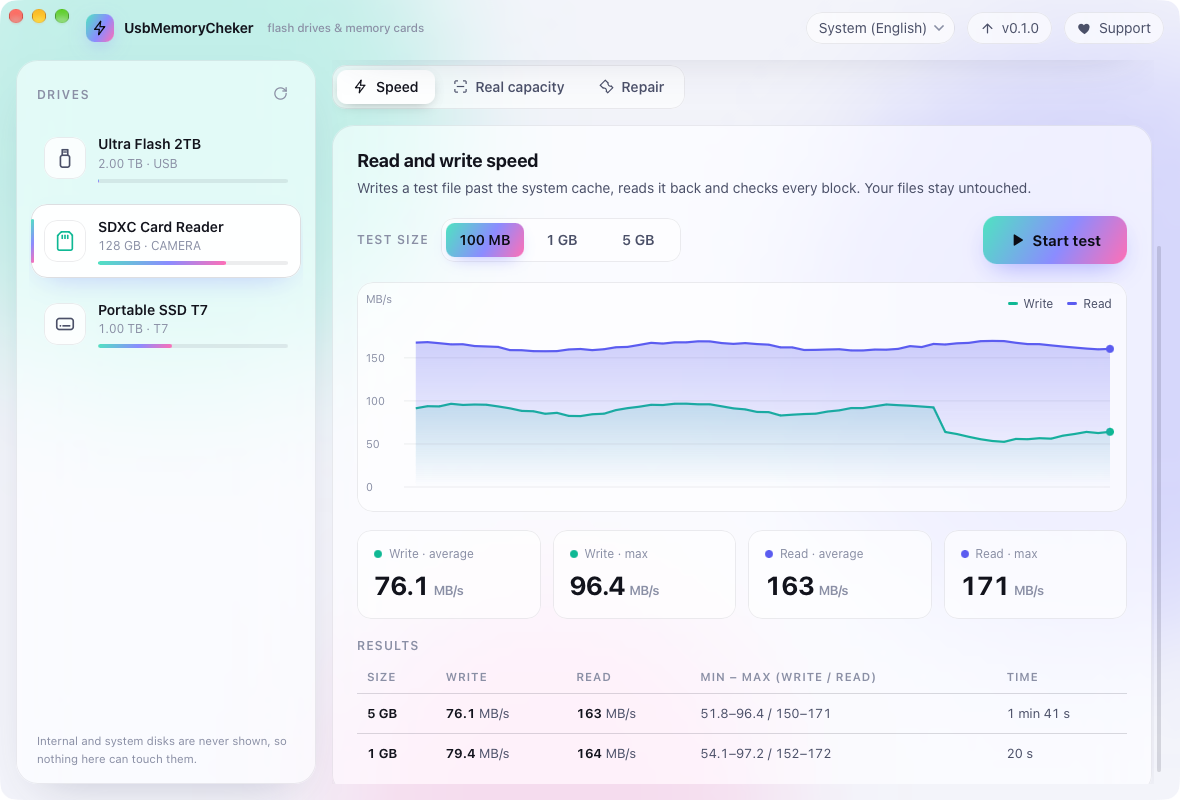
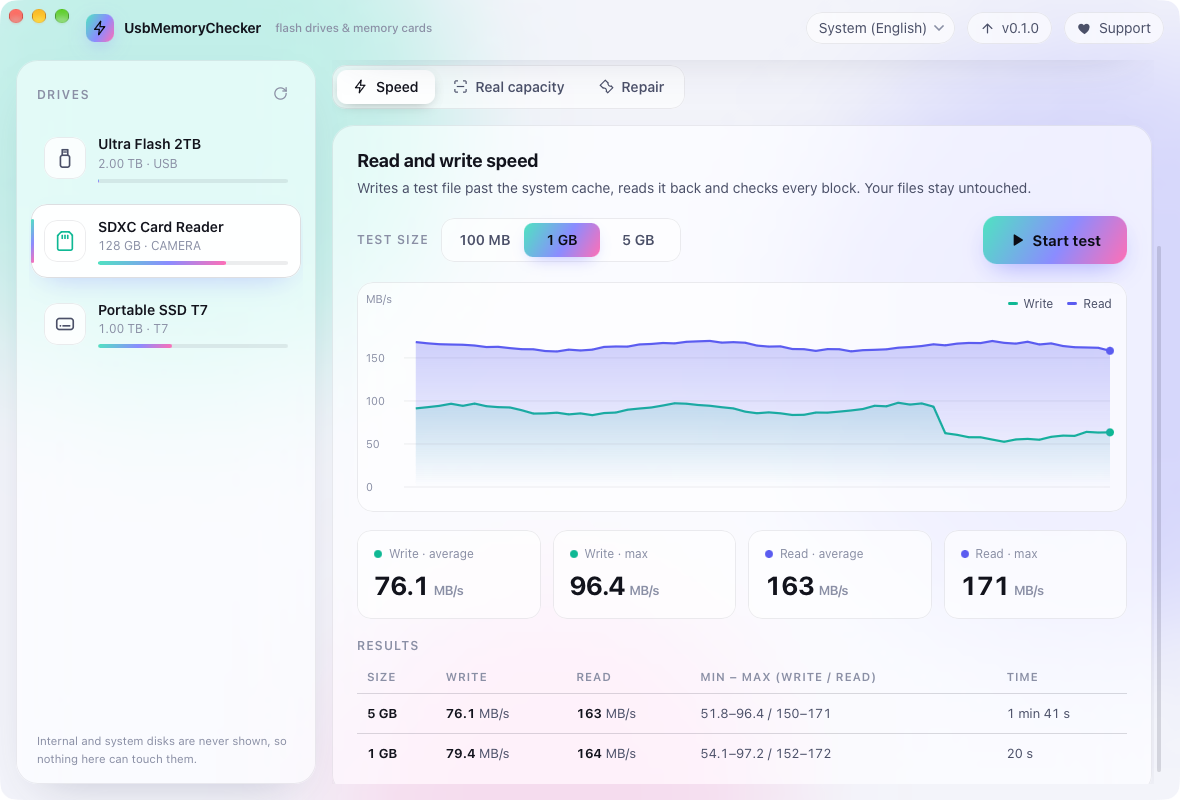
Rename the app to UsbMemoryChecker
- App, bundle, exe, release files, folders and texts use the new name
- Windows zip also carries the exe as UsbMemoryCheker.exe, so v0.1.0 can still update itself
- Settings are read from the old UsbMemoryCheker folder if the new one is missing

diff --git a/src/ui/i18n.js b/src/ui/i18n.js
@@ -132,7 +132,7 @@ const I18N = {
     errCancelled: 'Stopped.',
     errBrowser: "Couldn't open the browser: {err}",
     errWaitTask: 'Wait until the test finishes, then update.',
-    donateHeading: 'Thanks for using UsbMemoryCheker!',
+    donateHeading: 'Thanks for using UsbMemoryChecker!',
     donateOffline: "Couldn't load the latest list, showing a saved copy.",
     updTitle: 'Updates',
     updAvailableTitle: 'Version {v} is available',
@@ -152,7 +152,7 @@ const I18N = {
     updNew: 'Version {v} is available.',
     updLatest: 'You have the latest version, {v}.',
     updCheckFailed: "Couldn't check for updates: {err}",
-    updDownloading: 'Downloading UsbMemoryCheker {v}…',
+    updDownloading: 'Downloading UsbMemoryChecker {v}…',
     updRestarting: 'Update downloaded, restarting…',
     updFailed: "The update wasn't installed: {err}",
   },
@@ -284,7 +284,7 @@ const I18N = {
     errCancelled: 'Остановлено.',
     errBrowser: 'Не удалось открыть браузер: {err}',
     errWaitTask: 'Дождитесь окончания проверки, потом обновляйте.',
-    donateHeading: 'Спасибо, что пользуетесь UsbMemoryCheker!',
+    donateHeading: 'Спасибо, что пользуетесь UsbMemoryChecker!',
     donateOffline: 'Свежий список способов загрузить не удалось: показана сохранённая копия.',
     updTitle: 'Обновления',
     updAvailableTitle: 'Доступна версия {v}',
@@ -304,7 +304,7 @@ const I18N = {
     updNew: 'Доступна версия {v}.',
     updLatest: 'У вас последняя версия, {v}.',
     updCheckFailed: 'Не удалось проверить обновления: {err}',
-    updDownloading: 'Скачиваю UsbMemoryCheker {v}…',
+    updDownloading: 'Скачиваю UsbMemoryChecker {v}…',
     updRestarting: 'Обновление скачано, перезапуск…',
     updFailed: 'Обновление не установлено: {err}',
   },
@@ -436,7 +436,7 @@ const I18N = {
     errCancelled: 'Detenido.',
     errBrowser: 'No se pudo abrir el navegador: {err}',
     errWaitTask: 'Espera a que termine la prueba y luego actualiza.',
-    donateHeading: '¡Gracias por usar UsbMemoryCheker!',
+    donateHeading: '¡Gracias por usar UsbMemoryChecker!',
     donateOffline: 'No se pudo cargar la lista actual; se muestra una copia guardada.',
     updTitle: 'Actualizaciones',
     updAvailableTitle: 'La versión {v} está disponible',
@@ -456,7 +456,7 @@ const I18N = {
     updNew: 'La versión {v} está disponible.',
     updLatest: 'Tienes la última versión, {v}.',
     updCheckFailed: 'No se pudieron buscar actualizaciones: {err}',
-    updDownloading: 'Descargando UsbMemoryCheker {v}…',
+    updDownloading: 'Descargando UsbMemoryChecker {v}…',
     updRestarting: 'Actualización descargada, reiniciando…',
     updFailed: 'La actualización no se instaló: {err}',
   },
@@ -588,7 +588,7 @@ const I18N = {
     errCancelled: 'Angehalten.',
     errBrowser: 'Browser konnte nicht geöffnet werden: {err}',
     errWaitTask: 'Warten Sie, bis der Test fertig ist, und aktualisieren Sie dann.',
-    donateHeading: 'Danke, dass Sie UsbMemoryCheker nutzen!',
+    donateHeading: 'Danke, dass Sie UsbMemoryChecker nutzen!',
     donateOffline: 'Die aktuelle Liste konnte nicht geladen werden, es wird eine gespeicherte Kopie gezeigt.',
     updTitle: 'Updates',
     updAvailableTitle: 'Version {v} ist verfügbar',
@@ -608,7 +608,7 @@ const I18N = {
     updNew: 'Version {v} ist verfügbar.',
     updLatest: 'Sie haben die neueste Version, {v}.',
     updCheckFailed: 'Updates konnten nicht geprüft werden: {err}',
-    updDownloading: 'UsbMemoryCheker {v} wird geladen…',
+    updDownloading: 'UsbMemoryChecker {v} wird geladen…',
     updRestarting: 'Update geladen, Neustart…',
     updFailed: 'Das Update wurde nicht installiert: {err}',
   },
@@ -740,7 +740,7 @@ const I18N = {
     errCancelled: '已停止。',
     errBrowser: '无法打开浏览器：{err}',
     errWaitTask: '请等检测结束后再更新。',
-    donateHeading: '感谢使用 UsbMemoryCheker！',
+    donateHeading: '感谢使用 UsbMemoryChecker！',
     donateOffline: '无法加载最新列表，显示的是保存的副本。',
     updTitle: '更新',
     updAvailableTitle: '版本 {v} 可用',
@@ -760,7 +760,7 @@ const I18N = {
     updNew: '版本 {v} 可用。',
     updLatest: '已是最新版本 {v}。',
     updCheckFailed: '无法检查更新：{err}',
-    updDownloading: '正在下载 UsbMemoryCheker {v}…',
+    updDownloading: '正在下载 UsbMemoryChecker {v}…',
     updRestarting: '更新已下载，正在重启…',
     updFailed: '更新未安装：{err}',
   },

diff --git a/src/ui/index.html b/src/ui/index.html
@@ -3,7 +3,7 @@
 <head>
 <meta charset="utf-8">
 <meta name="viewport" content="width=device-width, initial-scale=1">
-<title>UsbMemoryCheker</title>
+<title>UsbMemoryChecker</title>
 <style>
 :root {
   --bg: #07080d;
@@ -360,7 +360,7 @@ tr:last-child td { border-bottom: 0; }
   <header class="titlebar" id="titlebar">
     <div class="brand">
       <div class="logo"><svg><use href="#i-bolt"/></svg></div>
-      UsbMemoryCheker <small data-i18n="appTagline"></small>
+      UsbMemoryChecker <small data-i18n="appTagline"></small>
     </div>
     <div class="spacer" id="dragZone"></div>
     <select class="pill-btn" id="langSelect" onchange="send('set_language',{lang:this.value})" data-i18n-title="languageTip"></select>

diff --git a/src/update.rs b/src/update.rs
@@ -1,7 +1,7 @@
-//! Обновление программы из релизов GitHub, как в ADB Toolkit, UsbMemoryCheker и EnhanceCapCut, на обеих системах.
+//! Обновление программы из релизов GitHub, как в ADB Toolkit, UsbMemoryChecker и EnhanceCapCut, на обеих системах.
 //!
 //! Последний релиз берётся из GitHub API; в нём ищется архив для своей системы
-//! (`…-macos-arm64.zip` с `UsbMemoryCheker.app` или `…-windows-x64.zip` с `UsbMemoryCheker.exe`). Скачанный архив сверяется
+//! (`…-macos-arm64.zip` с `UsbMemoryChecker.app` или `…-windows-x64.zip` с `UsbMemoryChecker.exe`). Скачанный архив сверяется
 //! с SHA-256, который GitHub публикует для каждого файла релиза, распаковывается во временную папку, а заменяет
 //! программу небольшой скрипт уже после её выхода и запускает новую версию.
 
@@ -13,8 +13,8 @@ use sha2::{Digest, Sha256};
 use crate::net::{self, command};
 
 pub const REPO: &str = "DeMoZ/UsbMemoryChecker";
-const WORK_PREFIX: &str = "UsbMemoryCheker-update-";
-const EXE: &str = "UsbMemoryCheker.exe";
+const WORK_PREFIX: &str = "UsbMemoryChecker-update-";
+const EXE: &str = "UsbMemoryChecker.exe";
 
 /// Суффикс архива для этой системы.
 pub fn asset_suffix() -> &'static str {
@@ -89,7 +89,7 @@ pub fn latest() -> Result<Option<Release>, String> {
     Ok(parse_release(&String::from_utf8_lossy(&data), asset_suffix()))
 }
 
-/// Где лежит программа, которую заменит обновление: `UsbMemoryCheker.app` на Mac, папка с .exe в Windows.
+/// Где лежит программа, которую заменит обновление: `UsbMemoryChecker.app` на Mac, папка с .exe в Windows.
 /// None — сборка для разработки (`cargo run`) или программа запущена не из .app.
 pub fn install_target() -> Option<PathBuf> {
     if cfg!(debug_assertions) {
@@ -107,7 +107,7 @@ pub fn install_target() -> Option<PathBuf> {
 pub fn can_write(target: &Path) -> bool {
     let folder = if cfg!(target_os = "macos") { target.parent() } else { Some(target) };
     let Some(folder) = folder else { return false };
-    let probe = folder.join(format!(".usbmemorycheker-update-check-{}", std::process::id()));
+    let probe = folder.join(format!(".usbmemorychecker-update-check-{}", std::process::id()));
     let ok = std::fs::write(&probe, b"").is_ok();
     let _ = std::fs::remove_file(&probe);
     ok
@@ -184,7 +184,7 @@ fn sh_quote(p: &Path) -> String {
     format!("'{}'", p.to_string_lossy().replace('\'', r"'\''"))
 }
 
-/// Папка загрузки (UsbMemoryCheker-update-<версия>), которую скрипт удалит после копирования.
+/// Папка загрузки (UsbMemoryChecker-update-<версия>), которую скрипт удалит после копирования.
 fn work_dir(source: &Path) -> PathBuf {
     source
         .ancestors()
@@ -235,7 +235,7 @@ pub fn windows_script(source: &Path, target: &Path, pid: u32) -> String {
 pub fn start_install(source: &Path, target: &Path) -> Result<(), String> {
     let pid = std::process::id();
     if cfg!(windows) {
-        let script = std::env::temp_dir().join("UsbMemoryCheker-update.ps1");
+        let script = std::env::temp_dir().join("UsbMemoryChecker-update.ps1");
         std::fs::write(&script, windows_script(source, target, pid)).map_err(|e| e.to_string())?;
         command("powershell.exe")
             .args(["-NoProfile", "-ExecutionPolicy", "Bypass", "-WindowStyle", "Hidden", "-File"])
@@ -243,7 +243,7 @@ pub fn start_install(source: &Path, target: &Path) -> Result<(), String> {
             .spawn()
             .map_err(|e| e.to_string())?;
     } else {
-        let script = std::env::temp_dir().join("UsbMemoryCheker-update.sh");
+        let script = std::env::temp_dir().join("UsbMemoryChecker-update.sh");
         std::fs::write(&script, mac_script(source, target, pid)).map_err(|e| e.to_string())?;
         command("/bin/bash").arg(&script).spawn().map_err(|e| e.to_string())?;
     }
@@ -256,9 +256,9 @@ mod tests {
 
     const LATEST: &str = r###"{"tag_name":"v0.4.0","html_url":"https://github.com/DeMoZ/UsbMemoryChecker/releases/tag/v0.4.0",
         "body":"## Что нового\n- Быстрее\n## Установка\nСкачайте","assets":[
-        {"name":"UsbMemoryCheker-macOS-v0.4.0.dmg","browser_download_url":"https://x/dmg"},
-        {"name":"UsbMemoryCheker-0.4.0-macos-arm64.zip","browser_download_url":"https://x/mac.zip","digest":"sha256:ABCDEF"},
-        {"name":"UsbMemoryCheker-0.4.0-windows-x64.zip","browser_download_url":"https://x/win.zip"}]}"###;
+        {"name":"UsbMemoryChecker-macOS-v0.4.0.dmg","browser_download_url":"https://x/dmg"},
+        {"name":"UsbMemoryChecker-0.4.0-macos-arm64.zip","browser_download_url":"https://x/mac.zip","digest":"sha256:ABCDEF"},
+        {"name":"UsbMemoryChecker-0.4.0-windows-x64.zip","browser_download_url":"https://x/win.zip"}]}"###;
 
     #[test]
     fn release_for_each_system() {
@@ -298,13 +298,13 @@ mod tests {
 
     #[test]
     fn scripts_quote_paths() {
-        let src = Path::new("/tmp/UsbMemoryCheker-update-0.4.0/app/UsbMemoryCheker.app");
-        let s = mac_script(src, Path::new("/Applications/UsbMemoryCheker.app"), 42);
+        let src = Path::new("/tmp/UsbMemoryChecker-update-0.4.0/app/UsbMemoryChecker.app");
+        let s = mac_script(src, Path::new("/Applications/UsbMemoryChecker.app"), 42);
         assert!(s.contains("kill -0 42"));
-        assert!(s.contains("'/Applications/UsbMemoryCheker.app.old'"));
-        assert!(s.contains("rm -rf '/Applications/UsbMemoryCheker.app.old' '/tmp/UsbMemoryCheker-update-0.4.0'"));
+        assert!(s.contains("'/Applications/UsbMemoryChecker.app.old'"));
+        assert!(s.contains("rm -rf '/Applications/UsbMemoryChecker.app.old' '/tmp/UsbMemoryChecker-update-0.4.0'"));
         // пути собираются через Path::join, поэтому проверка не зависит от разделителя в системе
-        let work = std::env::temp_dir().join("UsbMemoryCheker-update-0.4.0");
+        let work = std::env::temp_dir().join("UsbMemoryChecker-update-0.4.0");
         let target = std::env::temp_dir().join("Rom's tools");
         let w = windows_script(&work.join("app"), &target, 7);
         assert!(w.contains("Wait-Process -Id 7"));

diff --git a/src/i18n.rs b/src/i18n.rs
@@ -23,15 +23,15 @@ pub fn resolve(setting: &str) -> &'static str {
 /// Text of the macOS administrator password window.
 pub fn admin_prompt(lang: &str) -> &'static str {
     match lang {
-        "ru" => "UsbMemoryCheker нужен доступ администратора, чтобы напрямую проверить или переразметить носитель.",
+        "ru" => "UsbMemoryChecker нужен доступ администратора, чтобы напрямую проверить или переразметить носитель.",
         "es" => {
-            "UsbMemoryCheker necesita permisos de administrador para comprobar o reparticionar la unidad directamente."
+            "UsbMemoryChecker necesita permisos de administrador para comprobar o reparticionar la unidad directamente."
         }
         "de" => {
-            "UsbMemoryCheker benötigt Administratorrechte, um das Laufwerk direkt zu prüfen oder neu zu partitionieren."
+            "UsbMemoryChecker benötigt Administratorrechte, um das Laufwerk direkt zu prüfen oder neu zu partitionieren."
         }
-        "zh" => "UsbMemoryCheker 需要管理员权限才能直接检测或重新分区该存储设备。",
-        _ => "UsbMemoryCheker needs administrator rights to test or repartition the drive directly.",
+        "zh" => "UsbMemoryChecker 需要管理员权限才能直接检测或重新分区该存储设备。",
+        _ => "UsbMemoryChecker needs administrator rights to test or repartition the drive directly.",
     }
 }
 

diff --git a/src/donations.rs b/src/donations.rs
@@ -1,4 +1,4 @@
-//! Окно «Поддержать»: ссылки и тексты из репозитория DeMoZ/donations (файл `usbmemorycheker.json`, формат schema 1),
+//! Окно «Поддержать»: ссылки и тексты из репозитория DeMoZ/donations (файл `usbmemorychecker.json`, формат schema 1),
 //! как в ADB Toolkit, 360Cleaner, EnhanceCapCut, LocalAIBar и UniversalKM. Ссылки меняются там без нового релиза программы.
 //!
 //! Порядок: raw.githubusercontent.com, зеркало jsDelivr, последняя сохранённая копия, копия внутри программы.
@@ -7,7 +7,7 @@ use serde_json::Value;
 
 use crate::net;
 
-pub const FILE: &str = "usbmemorycheker.json";
+pub const FILE: &str = "usbmemorychecker.json";
 const BUILT_IN: &str = include_str!("../assets/donations.json");
 
 #[derive(Clone, Debug, PartialEq, Eq, serde::Serialize)]
@@ -127,7 +127,7 @@ mod tests {
     fn built_in_file_is_valid() {
         for lang in crate::i18n::LANGUAGES {
             let info = parse(BUILT_IN.as_bytes(), lang).unwrap();
-            assert!(info.message.unwrap().contains("UsbMemoryCheker"));
+            assert!(info.message.unwrap().contains("UsbMemoryChecker"));
         }
         let info = parse(BUILT_IN.as_bytes(), "ru").unwrap();
         assert!(info.methods[0].title.contains("Карта"));

diff --git a/src/net.rs b/src/net.rs
@@ -20,7 +20,7 @@ pub fn command(program: &str) -> Command {
 fn curl() -> Command {
     let mut c = command(if cfg!(windows) { "curl.exe" } else { "/usr/bin/curl" });
     // GitHub API без User-Agent отвечает отказом.
-    c.args(["-fsSL", "--proto", "=https", "-A", "UsbMemoryCheker"]).stdin(Stdio::null());
+    c.args(["-fsSL", "--proto", "=https", "-A", "UsbMemoryChecker"]).stdin(Stdio::null());
     c
 }
 
@@ -83,15 +83,15 @@ fn base_dir(var_win: &str, mac: &str, linux: &str) -> PathBuf {
     } else {
         home.join(linux)
     };
-    dir.join("UsbMemoryCheker")
+    dir.join("UsbMemoryChecker")
 }
 
-/// Настройки: `~/Library/Application Support/UsbMemoryCheker`, `%APPDATA%\UsbMemoryCheker`.
+/// Настройки: `~/Library/Application Support/UsbMemoryChecker`, `%APPDATA%\UsbMemoryChecker`.
 pub fn config_dir() -> PathBuf {
     base_dir("APPDATA", "Library/Application Support", ".config")
 }
 
-/// Кэш: `~/Library/Caches/UsbMemoryCheker`, `%LOCALAPPDATA%\UsbMemoryCheker`.
+/// Кэш: `~/Library/Caches/UsbMemoryChecker`, `%LOCALAPPDATA%\UsbMemoryChecker`.
 pub fn cache_dir() -> PathBuf {
     base_dir("LOCALAPPDATA", "Library/Caches", ".cache")
 }

diff --git a/src/helper.rs b/src/helper.rs
@@ -229,7 +229,7 @@ fn run_fix(disk: &Disk, job: &Job) -> Result<String, String> {
     }
     #[cfg(windows)]
     {
-        let script = std::env::temp_dir().join(format!("UsbMemoryCheker-fix-{}.txt", std::process::id()));
+        let script = std::env::temp_dir().join(format!("UsbMemoryChecker-fix-{}.txt", std::process::id()));
         std::fs::write(&script, diskpart_script(&disk.id, job)).map_err(|e| e.to_string())?;
         let out = crate::net::command("diskpart.exe").arg("/s").arg(&script).output();
         let _ = std::fs::remove_file(&script);
@@ -254,7 +254,7 @@ pub enum RunError {
 
 fn job_dir() -> PathBuf {
     let t = std::time::SystemTime::now().duration_since(std::time::UNIX_EPOCH).map(|d| d.as_millis()).unwrap_or(0);
-    std::env::temp_dir().join(format!("UsbMemoryCheker-job-{}-{t}", std::process::id()))
+    std::env::temp_dir().join(format!("UsbMemoryChecker-job-{}-{t}", std::process::id()))
 }
 
 /// Runs the job elevated and waits for it. `on_progress` gets (fraction, stage key).

diff --git a/src/main.rs b/src/main.rs
@@ -1,4 +1,4 @@
-//! UsbMemoryCheker — checks USB flash drives and memory cards: read/write speed, real capacity (finds fake
+//! UsbMemoryChecker — checks USB flash drives and memory cards: read/write speed, real capacity (finds fake
 //! drives that report more than they hold) and repairs a fake drive so it shows only its real size.
 //!
 //! Window: tao + wry (system WebView), page in `ui/index.html`. Threads: the WebView lives only in the main
@@ -166,7 +166,7 @@ fn main() -> Result<(), Box<dyn std::error::Error>> {
 
     #[allow(unused_mut)]
     let mut builder = WindowBuilder::new()
-        .with_title("UsbMemoryCheker")
+        .with_title("UsbMemoryChecker")
         .with_inner_size(tao::dpi::LogicalSize::new(1180.0, 800.0))
         .with_min_inner_size(tao::dpi::LogicalSize::new(880.0, 620.0));
     #[cfg(target_os = "macos")]

diff --git a/src/cli.rs b/src/cli.rs
@@ -1,11 +1,11 @@
 //! Command line without a window, for scripts and for checking the engines on a real drive:
 //!
 //! ```text
-//! usbmemorycheker --cli list
-//! usbmemorycheker --cli speed <disk> <MB>
-//! usbmemorycheker --cli full <disk> [limit MB]
-//! usbmemorycheker --cli probe <disk>        (asks for administrator rights like the window does)
-//! usbmemorycheker --cli fix <disk> <real bytes|0> [exfat|fat32] [LABEL]
+//! usbmemorychecker --cli list
+//! usbmemorychecker --cli speed <disk> <MB>
+//! usbmemorychecker --cli full <disk> [limit MB]
+//! usbmemorychecker --cli probe <disk>        (asks for administrator rights like the window does)
+//! usbmemorychecker --cli fix <disk> <real bytes|0> [exfat|fat32] [LABEL]
 //! ```
 //!
 //! Prints JSON results to stdout, progress to stderr.

diff --git a/src/settings.rs b/src/settings.rs
@@ -50,7 +50,12 @@ impl Settings {
     }
 
     pub fn load() -> Self {
-        std::fs::read_to_string(file()).map(|t| Self::from_json(&t)).unwrap_or_default()
+        // up to v0.1.0 the app was called UsbMemoryCheker and kept its settings in a folder of that name
+        let old = file().parent().and_then(|d| d.parent()).map(|d| d.join("UsbMemoryCheker").join("settings.json"));
+        std::fs::read_to_string(file())
+            .or_else(|e| old.map_or(Err(e), std::fs::read_to_string))
+            .map(|t| Self::from_json(&t))
+            .unwrap_or_default()
     }
 
     pub fn save(&self) {

diff --git a/build.rs b/build.rs
@@ -5,8 +5,8 @@ fn main() {
     {
         let mut res = winresource::WindowsResource::new();
         res.set_icon("assets/icon.ico");
-        res.set("FileDescription", "UsbMemoryCheker");
-        res.set("ProductName", "UsbMemoryCheker");
+        res.set("FileDescription", "UsbMemoryChecker");
+        res.set("ProductName", "UsbMemoryChecker");
         if let Err(e) = res.compile() {
             println!("cargo:warning=icon not added: {e}");
         }

diff --git a/src/fullcheck.rs b/src/fullcheck.rs
@@ -16,7 +16,7 @@ use crate::pattern::{self, BLOCK};
 pub const FILE_SIZE: u64 = 1 << 30;
 /// Left free for the file system's own records.
 pub const RESERVE: u64 = 8 << 20;
-pub const FOLDER: &str = "UsbMemoryCheker-test";
+pub const FOLDER: &str = "UsbMemoryChecker-test";
 
 #[derive(Clone, Debug, Serialize)]
 #[serde(rename_all = "camelCase")]
